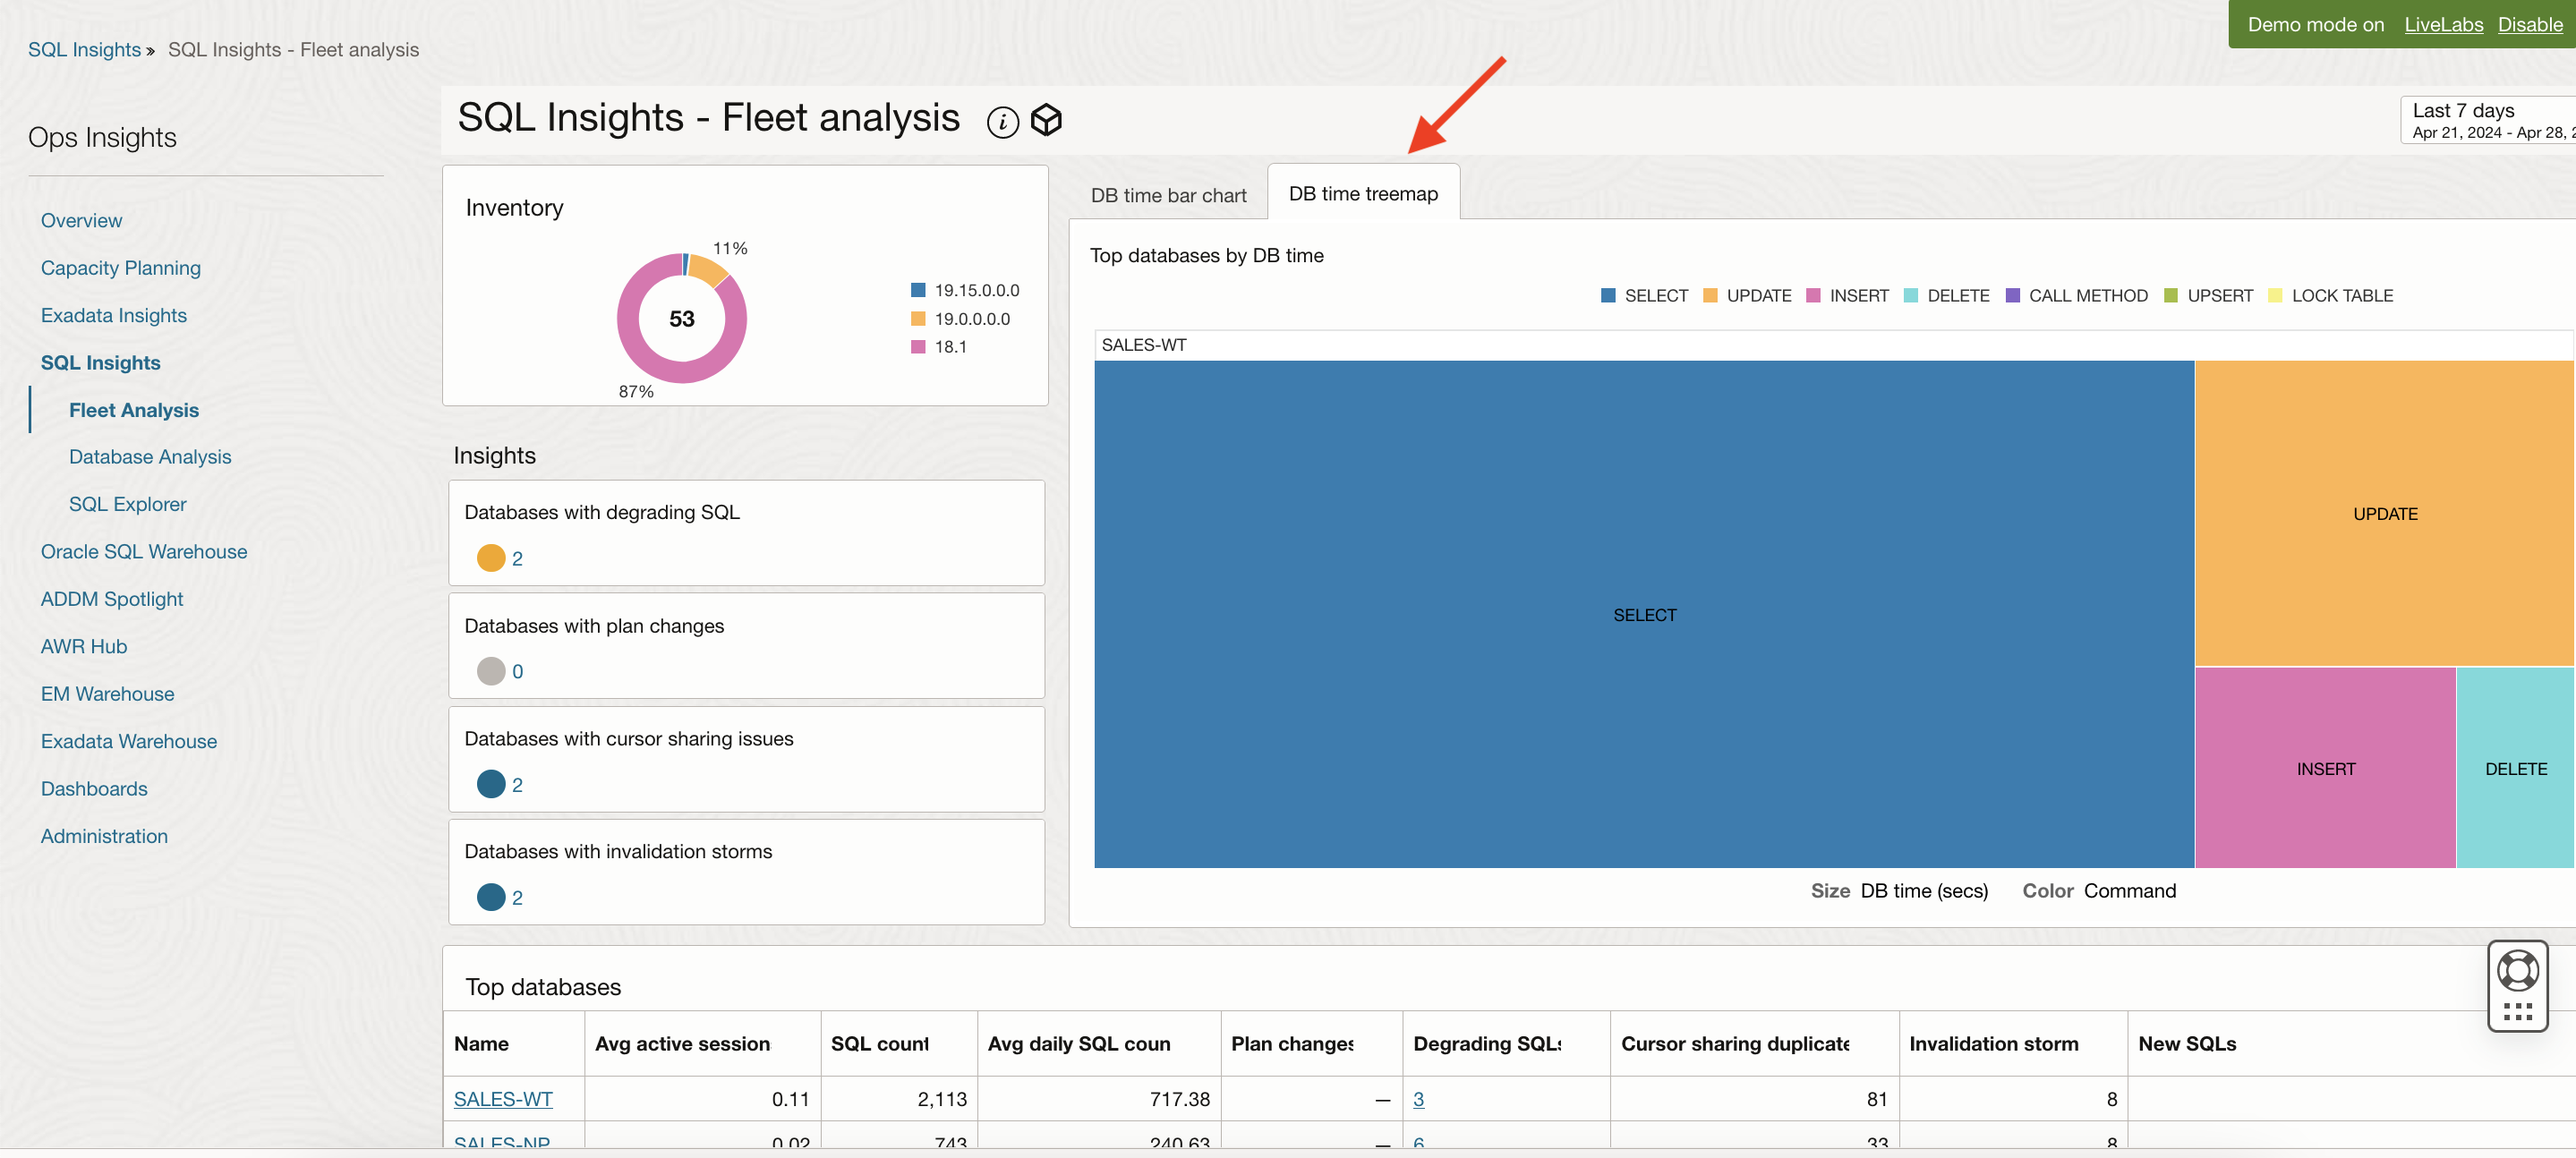
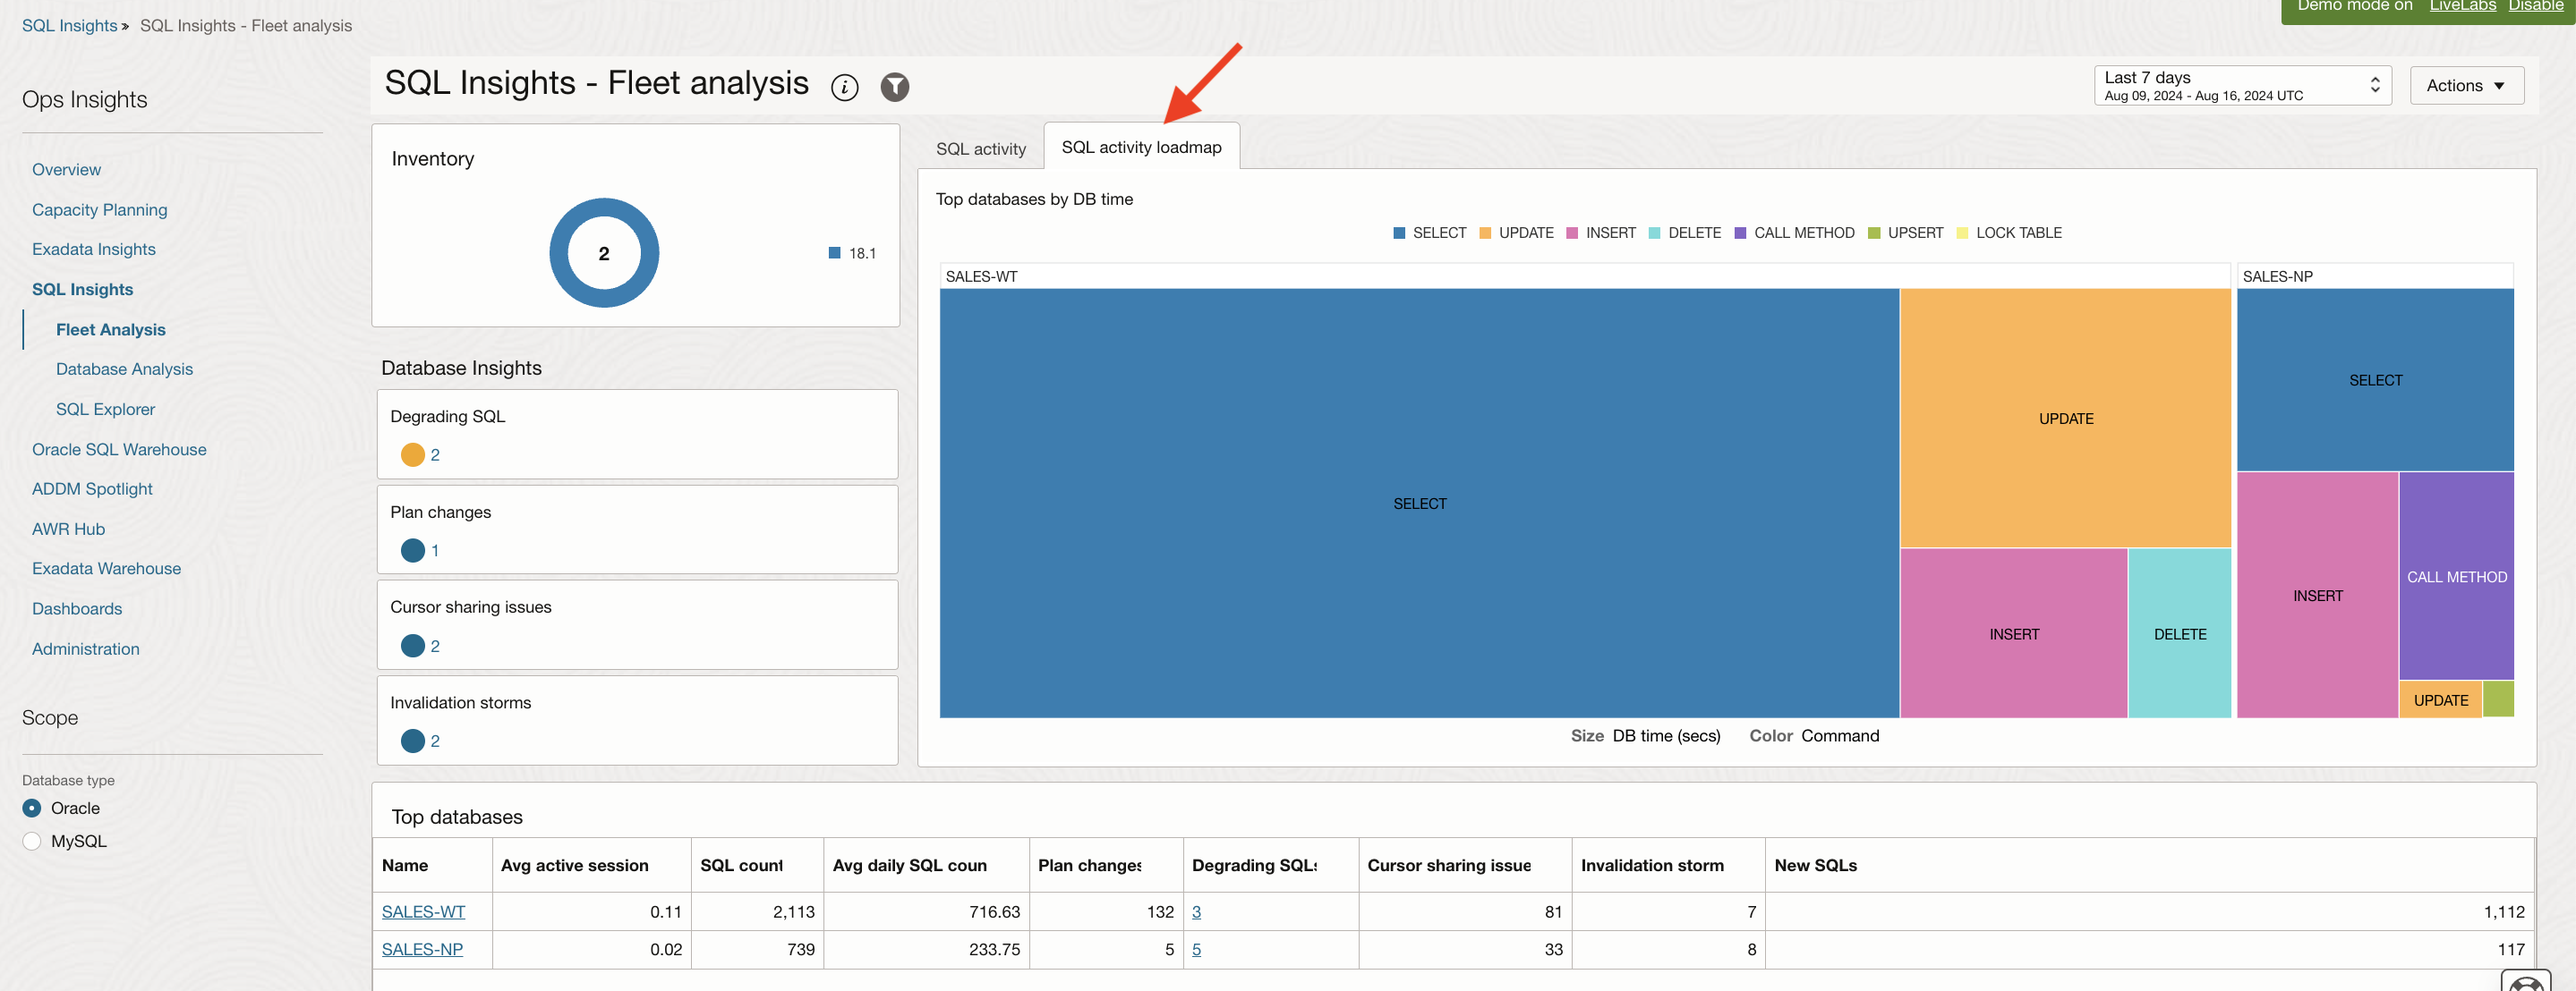
11111:Get Started with Oracle Cloud Infrastructure Operations Insights (#292)
* Operations-Insights

* Update manifest.json

* Update manifest.json

* Update introduction.md

* ocw-dbmgmt

* Update introduction.md

* Update dbmgmt-features.md

* Update introduction.md

* Update dbmgmt-features.md

* Update summary.png

* Aug11-Update

* Update introduction.md

* Update dbmgmt-features.md

* Update dbmgmt-features.md

* Updated manifest.json for Cloud World help

* Updated agent-install

* Updated agent-install

* Updated as per Lint Checker

* OCW update

* Update for OCW

* OCW update

* OCW Update

* Update introduction-ocw.md

* OCW Update

* OCW Update

* OCW Update

* Delete operations-insights-ocw directory

* Delete awr-hub.md.orig

* Update manifest.json

* Update manifest.json

* OCW Update

* OCW Update

* OCW Update

* OCW Update

* OCW Update

* OCW Update

* OCW Update

* OCW Update

* Update dbmgmt-features.md

* Update capacity-planning-adb-ocw.md

* Update sql-warehouse-ocw.png

* SQL Insights

* SQL Insights

* SQL Insights

* SQL Insights

* SQL Insights

* QUARTERLY QA

* Quarterly QA Update

* Updated URLs

* Quarterly QA

* OPSI Dashboards

* Unused Capacity Update

* SQL Explorer

* Update dashboards.md

* OCW24

* Dashboards-updated

* OCW24

* Update manifest.json

* OCW24 Update

* OCW24 Update

* Quarterly update

* Update manifest.json

* Update manifest.json

* Update for OCW

* Update for OCW

* Update for OCW

* Update for OCW

---------

diff --git a/operations-insights/sql-performance/sql-performance-ocw.md b/operations-insights/sql-performance/sql-performance-ocw.md
@@ -21,7 +21,7 @@ This lab assumes you have completed the following labs:
 
       ![Left Pane](./images/sql-insights.png " ")
 
-2. Click **DB time treemap** to view the tree map.
+2. Click **SQL activity loadmap** to view the tree map.
 
       ![Left Pane](./images/sql-insights-treemap.png " ")   
 
